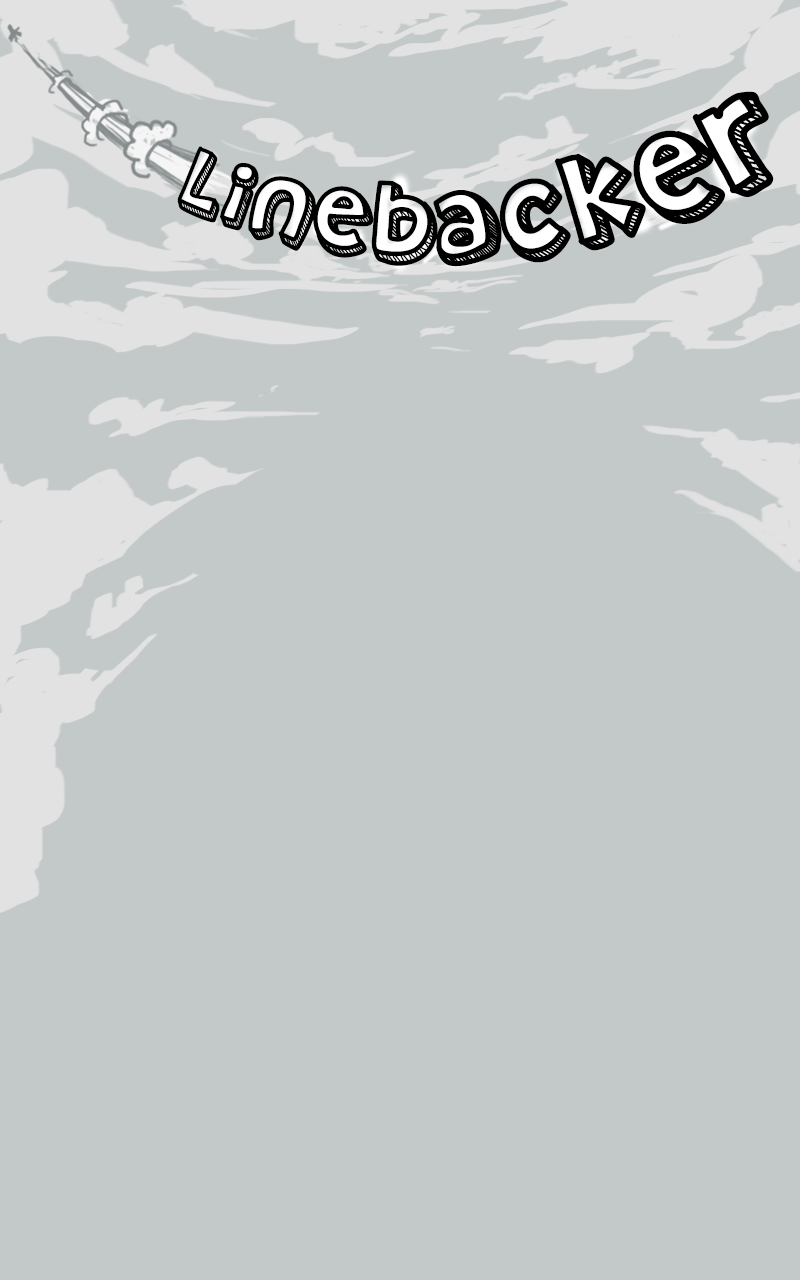
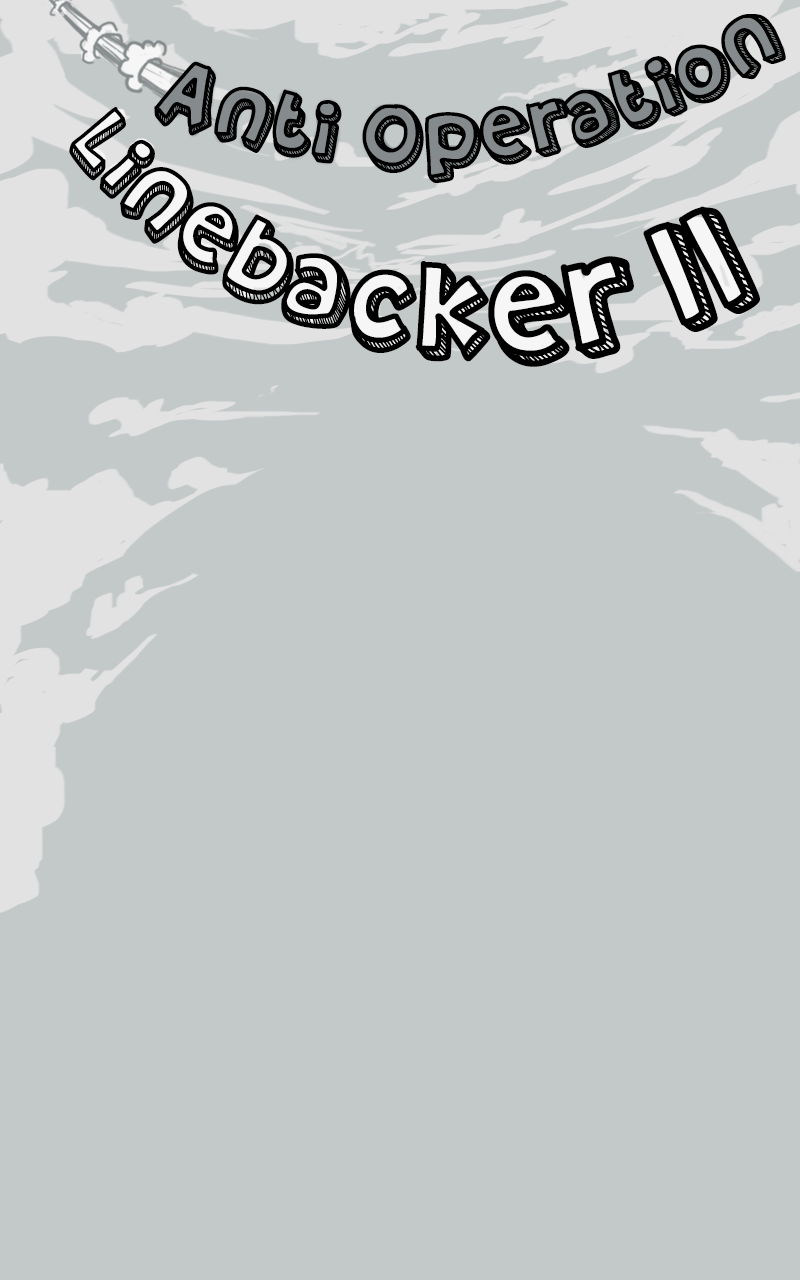
+ replace (english) new menu

Changed region(s): [[0.0312, 0.0, 1.0, 0.3125], [0.0, 0.0, 0.0312, 0.0312]]

diff --git a/trunk/Classes/GameClientManager.cpp b/trunk/Classes/GameClientManager.cpp
@@ -207,7 +207,6 @@ void GameClientManager::_onGetPlayerFbProfileCompleted( CCHttpClient *sender, CC
 		FacebookAccount* acc = new FacebookAccount(json_string_value(fbId), json_string_value(fbName), std::string(json_string_value(email)), -1);
 
 		m_clientDelegate->onGetPlayerFbProfileCompleted(true, acc);
-
 	}
 
 	CCLOG("------- END %s -------", response->getHttpRequest()->getTag());
@@ -678,6 +677,151 @@ void GameClientManager::_onGetScoreCompleted( CCHttpClient *sender, CCHttpRespon
 		time = json_object_get(root, "time");
 
 		m_clientDelegate->onGetScoreCompleted(true, (int)atof(json_string_value(score)), json_string_value(time));
+	}
+
+	CCLOG("------- END %s -------", response->getHttpRequest()->getTag());
+}
+
+//
+
+void GameClientManager::requestRevive( string appId, string fbId )
+{
+	string sUrl = string(G_URL_REVIVE);
+	CCLOG("URL: %s", sUrl.c_str());
+	CCAssert(sUrl.length() > 0, "Not set G_URL_REVIVE yet");
+	CCHttpRequest* request = new CCHttpRequest();
+	request->setUrl(sUrl.c_str());
+	request->setRequestType(CCHttpRequest::kHttpPost);
+
+	request->setTag("requestRevive");
+	request->setResponseCallback(this, httpresponse_selector(GameClientManager::_onRequestReviveCompleted));
+
+
+	// write the post data
+	CCString* strData = CCString::createWithFormat(
+		"{ method: \"set\", data: { appId: \"%s\", fbId: \"%s\" }, sign: \"%s\", appId: \"%s\" }",
+		G_APP_ID,
+		fbId.c_str(),
+		getMD5().c_str(),
+		G_APP_ID);
+
+
+	std::string s = encodeBeforeSend(strData->getCString());
+	request->setRequestData(s.c_str(), strlen(s.c_str()));
+
+	CCHttpClient::getInstance()->send(request);
+	request->release();
+}
+
+void GameClientManager::_onRequestReviveCompleted( CCHttpClient *sender, CCHttpResponse *response )
+{
+	if (!response || m_clientDelegate == NULL)
+	{
+		return;
+	}
+
+	//Show info
+	CCLOG("------- BEGIN %s -------", response->getHttpRequest()->getTag());
+	CCLOG("Status: [%i]", response->getResponseCode());
+
+	if (!response->isSucceed())
+	{
+		CCLOG("Request failed: %s", response->getErrorBuffer());
+		m_clientDelegate->onRequestReviveCompleted(false, -1);
+	}
+	else
+	{
+		std::vector<char> *buffer = response->getResponseData();
+		std::string str(buffer->begin(), buffer->end());
+
+		str = decodeBeforeProcess(str);
+
+		CCLOG("Content: %s", str.c_str());
+
+		//get score from response
+		json_t *root;
+		json_error_t error;
+		json_t *isSuccess;
+		json_t *newDiamond;
+
+		root = json_loads(str.c_str(), strlen(str.c_str()), &error);
+		isSuccess = json_object_get(root, "isSuccess");
+		newDiamond = json_object_get(root, "newDiamond");
+
+		m_clientDelegate->onRequestReviveCompleted((bool)json_is_true(isSuccess), (int)atof(json_string_value(newDiamond)));
+	}
+
+	CCLOG("------- END %s -------", response->getHttpRequest()->getTag());
+}
+
+//
+
+void GameClientManager::requestGetLazer( string appId, string fbId, string friendId)
+{
+	string sUrl = string(G_URL_GET_LAZER);
+	CCLOG("URL: %s", sUrl.c_str());
+	CCAssert(sUrl.length() > 0, "Not set G_URL_GET_LAZER yet");
+	CCHttpRequest* request = new CCHttpRequest();
+	request->setUrl(sUrl.c_str());
+	request->setRequestType(CCHttpRequest::kHttpPost);
+
+	request->setTag("getLazer");
+	request->setResponseCallback(this, httpresponse_selector(GameClientManager::_onRequestGetLazerCompleted));
+
+
+	// write the post data
+	CCString* strData = CCString::createWithFormat(
+		"{ method: \"set\", data: { appId: \"%s\", fbId: \"%s\", friendId: \"%s\" }, sign: \"%s\", appId: \"%s\" }",
+		G_APP_ID,
+		fbId.c_str(),
+		friendId.c_str(),
+		getMD5().c_str(),
+		G_APP_ID);
+
+
+	std::string s = encodeBeforeSend(strData->getCString());
+	request->setRequestData(s.c_str(), strlen(s.c_str()));
+
+	CCHttpClient::getInstance()->send(request);
+	request->release();
+}
+
+void GameClientManager::_onRequestGetLazerCompleted( CCHttpClient *sender, CCHttpResponse *response )
+{
+	if (!response || m_clientDelegate == NULL)
+	{
+		return;
+	}
+
+	//Show info
+	CCLOG("------- BEGIN %s -------", response->getHttpRequest()->getTag());
+	CCLOG("Status: [%i]", response->getResponseCode());
+
+	if (!response->isSucceed())
+	{
+		CCLOG("Request failed: %s", response->getErrorBuffer());
+		m_clientDelegate->onRequestGetLazerCompleted(false, -1);
+	}
+	else
+	{
+		std::vector<char> *buffer = response->getResponseData();
+		std::string str(buffer->begin(), buffer->end());
+
+		str = decodeBeforeProcess(str);
+
+		CCLOG("Content: %s", str.c_str());
+
+		//get score from response
+		json_t *root;
+		json_error_t error;
+		json_t *isSuccess;
+		json_t *newDiamond;
+
+		root = json_loads(str.c_str(), strlen(str.c_str()), &error);
+		isSuccess = json_object_get(root, "isSuccess");
+		newDiamond = json_object_get(root, "newDiamond");
+
+		m_clientDelegate->onRequestGetLazerCompleted((bool)json_is_true(isSuccess), (int)atof(json_string_value(newDiamond)));
 	}
 
 	CCLOG("------- END %s -------", response->getHttpRequest()->getTag());

diff --git a/trunk/proj.android/src/com/chimgokien/phicongbutchi/PhiCongButChi.java b/trunk/proj.android/src/com/chimgokien/phicongbutchi/PhiCongButChi.java
@@ -31,6 +31,7 @@ import java.util.concurrent.atomic.AtomicInteger;
 
 import org.cocos2dx.lib.Cocos2dxActivity;
 import org.cocos2dx.lib.Cocos2dxGLSurfaceView;
+import org.cocos2dx.lib.Cocos2dxRenderer;
 import org.json.JSONException;
 import org.json.JSONObject;
 
@@ -47,6 +48,7 @@ import android.os.Vibrator;
 import android.telephony.TelephonyManager;
 import android.util.Base64;
 import android.util.Log;
+import android.view.MotionEvent;
 import android.view.View;
 
 import com.chimgokien.phicongbutchi.classes.AndroidNDKHelper;
@@ -73,6 +75,7 @@ public class PhiCongButChi extends Cocos2dxActivity {
      */
     String SENDER_ID = "415130126994"; // "1063175715204"; //Google Cloud Project Id
     String TAG_PUSH = "PUSH";
+	String TAG = "JAVA_CALL";
 
     GoogleCloudMessaging gcm;
     AtomicInteger msgId = new AtomicInteger();
@@ -81,8 +84,14 @@ public class PhiCongButChi extends Cocos2dxActivity {
     String regid;
     
     ////////////////////////////////////////////////////////////////////////
+    //Disable multitouch
+    
+    
+    
+    
+    
+    ////////////////////////////////////////////////////////////////////////
 	
-	String TAG = "JAVA_CALL";
 	
 	public void Rate(JSONObject prms)
 	{
@@ -205,7 +214,7 @@ public class PhiCongButChi extends Cocos2dxActivity {
         }        
         /////////////////////////////////////////////////////////////////
         
-        GetPhoneNumber(null);
+        //GetPhoneNumber(null);
 	}
     
 

diff --git a/trunk/Classes/GameClientManager.h b/trunk/Classes/GameClientManager.h
@@ -11,8 +11,10 @@
 #include "Global.h"
 #include "GameClientObjects.h"
 
+
 USING_NS_CC;
 USING_NS_CC_EXT;
+using namespace std;
 
 #define KEY		"cGk@proJectDBPtkkEy-askdjhsakdhajakshdwi"
 
@@ -94,6 +96,16 @@ public:
 
 	void getScore( std::string appId, std::string fbId );
 	void _onGetScoreCompleted(CCHttpClient *sender, CCHttpResponse *response);
+
+	//////////////////////////////////////////////////////////////////////////
+
+	void requestRevive(string appId, string fbId);
+	void _onRequestReviveCompleted(CCHttpClient *sender, CCHttpResponse *response);
+	
+	//////////////////////////////////////////////////////////////////////////
+
+	void requestGetLazer(string appId, string fbId, string friendId);
+	void _onRequestGetLazerCompleted(CCHttpClient *sender, CCHttpResponse *response);
 
 	//////////////////////////////////////////////////////////////////////////
 

diff --git a/trunk/Classes/ScoreScene.cpp b/trunk/Classes/ScoreScene.cpp
@@ -1551,7 +1551,7 @@ CCTableViewCell* ScoreScene::getTableCellXepHangAtIndex( CCTableView *table, uns
 			CCLabelTTF* lbGetBoomTimer = CCLabelTTF::create(strGetBoomTimer->getCString(), "Roboto-Medium.ttf", 28); //32
 			lbGetBoomTimer->setColor(ccc3(0, 0, 0));
 			lbGetBoomTimer->setAnchorPoint(ccp(0.5f, 0.75f));
-			lbGetBoomTimer->setPosition(ccp(600, m_sprCell->getContentSize().height/4 - 5));
+			lbGetBoomTimer->setPosition(ccp(600, m_sprCell->getContentSize().height/4));
 			lbGetBoomTimer->setTag(BEGIN_TAG_LB_GET_BOOM_TIMER + idx); //5000
 			cell->addChild(lbGetBoomTimer);
 			((CustomTableViewCell*)cell)->m_lbGetBoomTimer = lbGetBoomTimer;

diff --git a/trunk/Classes/ConfigLoader.cpp b/trunk/Classes/ConfigLoader.cpp
@@ -27,6 +27,8 @@ ConfigLoader::ConfigLoader(void)
 	G_URL_FRIEND_LIST = std::string(GetValue(std::string("G_URL_FRIEND_LIST"))->getCString());
 	G_URL_DEVICE_PROFILE = std::string(GetValue(std::string("G_URL_DEVICE_PROFILE"))->getCString());
 	G_URL_SCORE = std::string(GetValue(std::string("G_URL_SCORE"))->getCString());
+	G_URL_REVIVE = std::string(GetValue(std::string("G_URL_REVIVE"))->getCString());
+	G_URL_GET_LAZER = std::string(GetValue(std::string("G_URL_GET_LAZER"))->getCString());
 
 	G_URL_RATE = std::string(GetValue(std::string("G_URL_RATE"))->getCString());
 

diff --git a/trunk/Classes/MenuScene.h b/trunk/Classes/MenuScene.h
@@ -100,12 +100,11 @@ public:
 		CCSpriteFrameCache* sprcache = CCSpriteFrameCache::sharedSpriteFrameCache();
 		sprcache->addSpriteFramesWithFile("MainGame.plist");
 
-
-		//DEBUG
-		NDKHelper::AddSelector("MENU",
-			"onPushNotification",
-			callfuncND_selector(MenuScene::onPushNotification),
-			this);
+//		//DEBUG
+// 		NDKHelper::AddSelector("MENU",
+// 			"onPushNotification",
+// 			callfuncND_selector(MenuScene::onPushNotification),
+// 			this);
 	}
 
 	void onRateCompleted( CCNode *sender, void *data );

diff --git a/trunk/Classes/GameClientDelegate.h b/trunk/Classes/GameClientDelegate.h
@@ -23,6 +23,10 @@ public:
 	virtual void onSendScoreCompleted( bool isSuccess, int newScore ){}
 	virtual void onGetScoreCompleted( bool isSuccess, int score, std::string time ){}
 
+	virtual void onRequestReviveCompleted( bool isSuccess, int newDiamond ){}
+
+	virtual void onRequestGetLazerCompleted(bool isSuccess, int newDiamond){}
+
 // 	virtual void onSendItemsCompleted( bool isSuccess, int newScore ){}
 // 	virtual void onGetItemsCompleted(bool isSuccess, CCArray* arrGameItems){}
 };

diff --git a/trunk/Classes/Global.h b/trunk/Classes/Global.h
@@ -42,6 +42,8 @@ extern std::string G_URL_PLAYER_FB_PROFILE;
 extern std::string G_URL_FRIEND_LIST;
 extern std::string G_URL_DEVICE_PROFILE;
 extern std::string G_URL_SCORE;
+extern std::string G_URL_REVIVE;
+extern std::string G_URL_GET_LAZER;
 
 extern std::string G_URL_RATE;
 

diff --git a/trunk/Classes/Global.cpp b/trunk/Classes/Global.cpp
@@ -10,6 +10,8 @@ std::string G_URL_PLAYER_FB_PROFILE;
 std::string G_URL_FRIEND_LIST;
 std::string G_URL_DEVICE_PROFILE;
 std::string G_URL_SCORE;
+std::string G_URL_REVIVE;
+std::string G_URL_GET_LAZER;
 
 std::string G_URL_RATE;
 

diff --git a/trunk/Classes/TextLoader.h b/trunk/Classes/TextLoader.h
@@ -49,7 +49,7 @@ protected:
 static const char* TXT(const char* id)
 {
 	const char* text = TextLoader::shareTextLoader()->getText(id);
-	CCLOG("TXT: %s => %s", id, text);
+	//CCLOG("TXT: %s => %s", id, text);
 	return text;
 }
 
